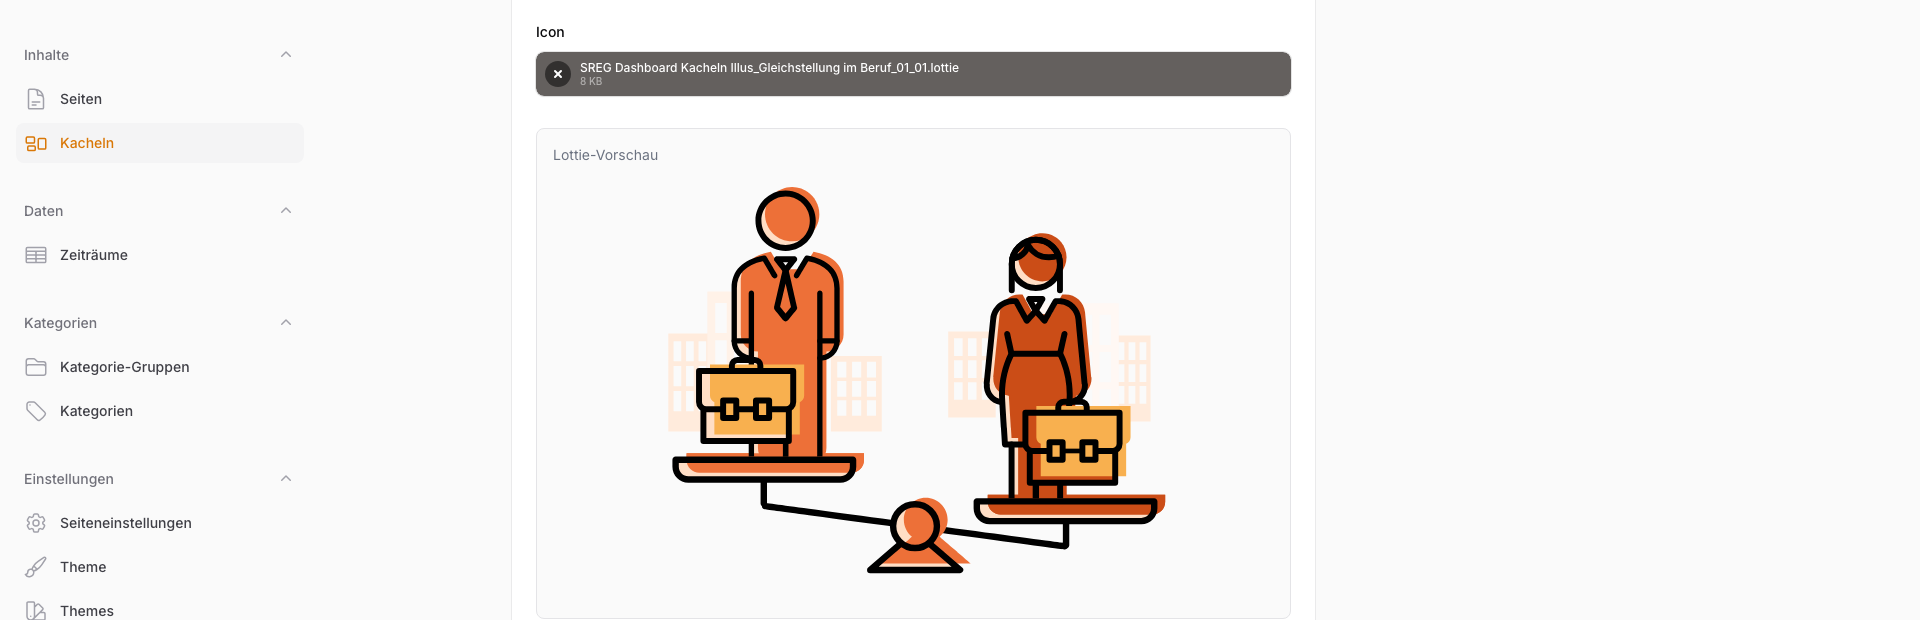
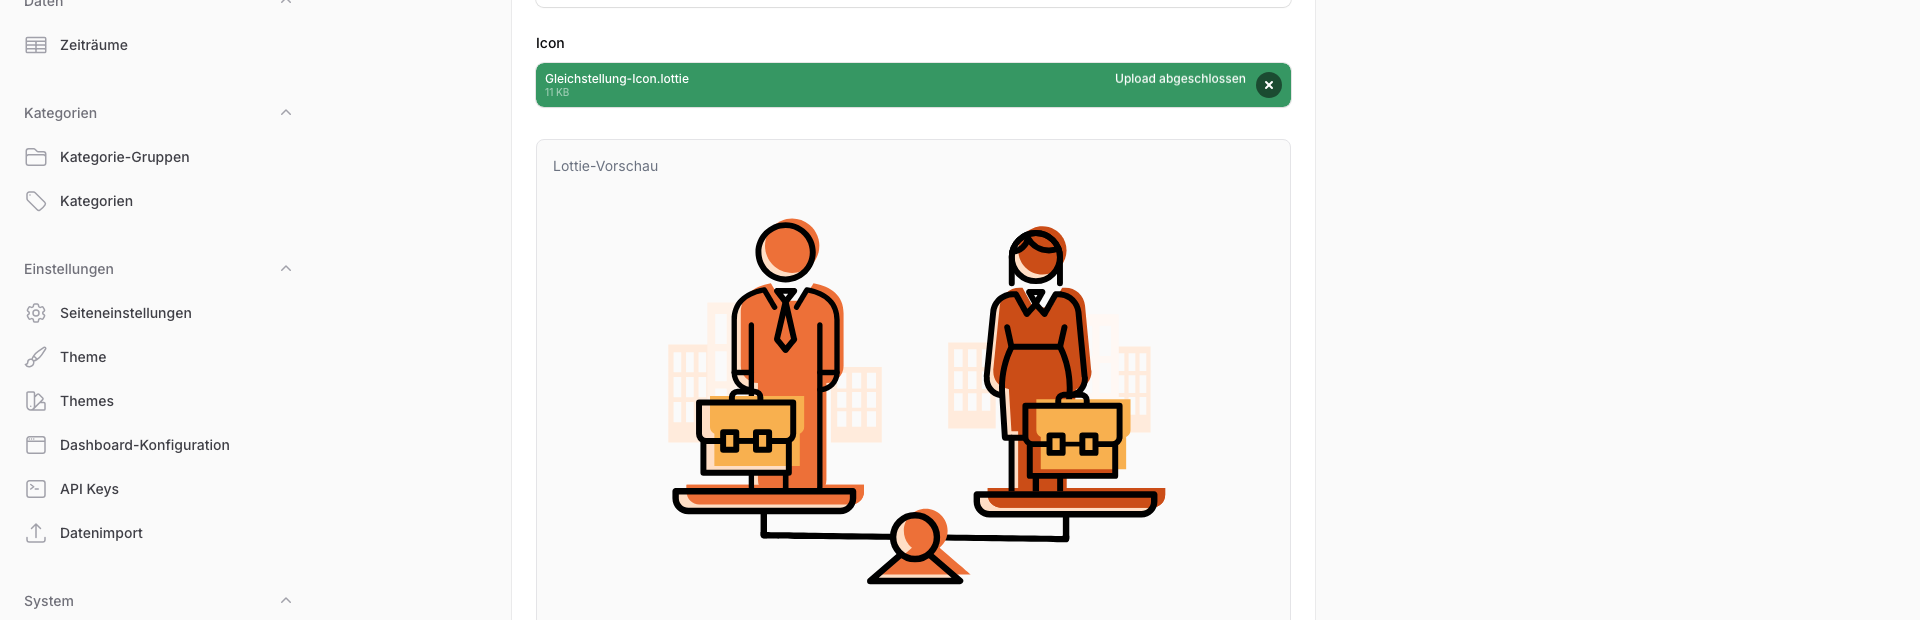
chore: fill remaining WIP screenshots + wire into user guide; refine two shots
Round 2, addressing review feedback:

- Refine de/05-icon-lottie-upload: enlarge crop so the green "Upload
  abgeschlossen" success message is visible again (+ Lottie preview).
- Refine en/06-general-settings + de/06-seiteneinstellungen-allgemein:
  taller crop (was ~430px) so more of the form is visible.
- Create the screenshots for the remaining WIP placeholders and wire them
  into the markdown (replace the WIP callout with the image reference):
  * ch04: create category group, group multilingual title, delete group,
    edit category, assign category (on the tile form), category
    multilingual title (de+en).
  * ch05: download-block file upload (de+en).
  * ch06: edit/delete API key, data import, edit/delete user (de+en);
    plus wire in the already-captured page-settings shot.
- Correct the 4.2.4 'assign category' shot: the prose assigns categories
  on the TILE form (per-group multi-selects), not on the category form.

Still WIP (intentionally left, flagged on the ticket):
- 5.3 Alt text & accessibility — prose-level placeholder deferred to
  whole section being reworked, not just a missing image.
- 5.4 — its WIP marker names the same file already shown in 5.1.
- 6.2 System — an intro sentence with no distinct screen of its own.

All referenced screenshots present, byte-distinct (md5 dedup). Image +
markdown only; no app code touched.

diff --git a/docs/user-guide/de/04-kategorien.md b/docs/user-guide/de/04-kategorien.md
@@ -24,11 +24,8 @@ Die Kategorie-Gruppen sind über **Kategorien → Kategorie-Gruppen** erreichbar
 
 Mit **Erstellen** oben rechts eine neue Gruppe anlegen. Das Formular enthält folgende Felder:
 
-<!-- Screenshot ausstehend (04-gruppe-erstellen.png): leeres Formular „Kategorie-Gruppe erstellen" mit Titel, Schlüssel und Aktiv-Schalter -->
-
-> ### <span style="color:#d32f2f">⚠ WIP — Work in progress</span>
->
-> <span style="color:#d32f2f">**Screenshot wird noch ergänzt.**</span>
+<!-- Screenshot: Kategorie-Gruppe erstellen -->
+![Kategorie-Gruppe erstellen](../assets/screenshots/de/04-gruppe-erstellen.png)
 
 | Feld | Beschreibung |
 |------|-------------|
@@ -53,9 +50,8 @@ Ein Klick auf eine Gruppe in der Übersicht öffnet das Bearbeiten-Formular. Neb
 
 Der **Titel** einer Kategorie-Gruppe wird pro Sprache getrennt gepflegt. Wie bei Seiten und Kacheln (siehe [Kapitel 2.7, Mehrsprachige Inhalte](02-seiten-verwalten.md#27-mehrsprachige-inhalte-locale-switcher)) wählt der **Sprache**-Umschalter im Formular, für welche Sprachversion der Titel gerade bearbeitet wird. Schlüssel, Aktiv-Schalter und Position gelten für alle Sprachversionen gleichermaßen.
 
-> ### <span style="color:#d32f2f">⚠ WIP — Work in progress</span>
->
-> <span style="color:#d32f2f">**Screenshot wird noch ergänzt.**</span>
+<!-- Screenshot: Kategorie-Gruppe: mehrsprachiger Titel -->
+![Kategorie-Gruppe: mehrsprachiger Titel](../assets/screenshots/de/04-gruppe-mehrsprachig.png)
 
 ### 4.1.5 Kategorie-Gruppe löschen
 
@@ -63,9 +59,8 @@ In der Kategorie-Gruppen-Übersicht steht rechts in jeder Zeile die rot markiert
 
 > **Hinweis:** Das Löschen einer Kategorie-Gruppe lässt sich nicht rückgängig machen. Ihre bisherigen Kategorien bleiben erhalten, verlieren aber die Gruppenzuordnung — sie erscheinen dann in keinem Filterabschnitt mehr, bis sie einer anderen Gruppe zugewiesen werden. Bei Unsicherheit die Gruppe über den **Aktiv**-Schalter deaktivieren, statt sie zu löschen.
 
-> ### <span style="color:#d32f2f">⚠ WIP — Work in progress</span>
->
-> <span style="color:#d32f2f">**Screenshot wird noch ergänzt.**</span>
+<!-- Screenshot: Kategorie-Gruppe löschen -->
+![Kategorie-Gruppe löschen](../assets/screenshots/de/04-gruppe-loeschen.png)
 
 ### 4.1.6 Reihenfolge und Sichtbarkeit
 
@@ -115,9 +110,8 @@ Mit **Erstellen** speichern oder **Erstellen & weiterer Eintrag** direkt eine we
 
 Ein Klick auf eine Kategorie — in der zentralen Übersicht oder in der verschachtelten Tabelle einer Gruppe — öffnet dasselbe Formular wie beim Anlegen. Dort lassen sich Titel, Icon, Farbe (sofern die Gruppe als Farbquelle hinterlegt ist) und der Aktiv-Schalter ändern. Der Schlüssel bleibt schreibgeschützt.
 
-> ### <span style="color:#d32f2f">⚠ WIP — Work in progress</span>
->
-> <span style="color:#d32f2f">**Screenshot wird noch ergänzt.**</span>
+<!-- Screenshot: Kategorie bearbeiten -->
+![Kategorie bearbeiten](../assets/screenshots/de/04-kategorie-bearbeiten.png)
 
 ### 4.2.4 Kategorie zuordnen
 
@@ -125,17 +119,15 @@ Kategorien werden nicht in der Kategorienverwaltung selbst mit Kacheln verknüpf
 
 > **Hinweis:** Die Zuordnung erfolgt pro Gruppe immer als Mehrfachauswahl — einer Kachel lassen sich also mehrere Kategorien derselben Gruppe zuordnen.
 
-> ### <span style="color:#d32f2f">⚠ WIP — Work in progress</span>
->
-> <span style="color:#d32f2f">**Screenshot wird noch ergänzt.**</span>
+<!-- Screenshot: Kategorie am Kachel-Formular zuordnen -->
+![Kategorie am Kachel-Formular zuordnen](../assets/screenshots/de/04-kategorie-zuordnen.png)
 
 ### 4.2.5 Mehrsprachige Inhalte
 
 Der **Titel** einer Kategorie wird pro Sprache getrennt gepflegt (siehe [Kapitel 2.7, Mehrsprachige Inhalte](02-seiten-verwalten.md#27-mehrsprachige-inhalte-locale-switcher)). Schlüssel, Icon, Farbe, Aktiv-Schalter und Gruppenzuordnung gelten für alle Sprachversionen gleichermaßen.
 
-> ### <span style="color:#d32f2f">⚠ WIP — Work in progress</span>
->
-> <span style="color:#d32f2f">**Screenshot wird noch ergänzt.**</span>
+<!-- Screenshot: Kategorie: mehrsprachiger Titel -->
+![Kategorie: mehrsprachiger Titel](../assets/screenshots/de/04-kategorie-mehrsprachig.png)
 
 ### 4.2.6 Kategorie löschen
 

diff --git a/docs/user-guide/en/04-categories.md b/docs/user-guide/en/04-categories.md
@@ -24,11 +24,8 @@ Category groups are available under **Categories → Category Groups**. The over
 
 Use **Create** at the top right to create a new group. The form contains the following fields:
 
-<!-- Screenshot pending (04-group-create.png): empty "Create Category Group" form with Title, Key, and Active toggle -->
-
-> ### <span style="color:#d32f2f">⚠ WIP — Work in progress</span>
->
-> <span style="color:#d32f2f">**Screenshot to be added.**</span>
+<!-- Screenshot: Create a category group -->
+![Create a category group](../assets/screenshots/en/04-group-create.png)
 
 | Field | Description |
 |-------|-------------|
@@ -53,9 +50,8 @@ Clicking a group in the overview opens the edit form. Alongside title, key, and 
 
 The **title** of a category group is maintained separately per language. As with pages and tiles (see [Chapter 2.7, Multilingual Content](02-managing-pages.md#27-multilingual-content-locale-switcher)), the **Locale** switcher in the form selects which language version of the title is currently being edited. Key, the Active toggle, and position apply to all language versions equally.
 
-> ### <span style="color:#d32f2f">⚠ WIP — Work in progress</span>
->
-> <span style="color:#d32f2f">**Screenshot to be added.**</span>
+<!-- Screenshot: Category group: multilingual title -->
+![Category group: multilingual title](../assets/screenshots/en/04-group-multilingual.png)
 
 ### 4.1.5 Delete a Category Group
 
@@ -63,9 +59,8 @@ The categories groups overview shows the red-marked **Delete** action on the rig
 
 > **Note:** Deleting a category group cannot be undone. Its existing categories are kept but lose their group assignment — they then no longer appear in any filter section until assigned to another group. If unsure, deactivate the group via the **Active** toggle instead of deleting it.
 
-> ### <span style="color:#d32f2f">⚠ WIP — Work in progress</span>
->
-> <span style="color:#d32f2f">**Screenshot to be added.**</span>
+<!-- Screenshot: Delete a category group -->
+![Delete a category group](../assets/screenshots/en/04-group-delete.png)
 
 ### 4.1.6 Order and Visibility
 
@@ -115,9 +110,8 @@ Use **Create** to save, or **Create & create another** to immediately add anothe
 
 Clicking a category — in the central overview or in the nested table of a group — opens the same form as when creating it. There, title, icon, color (if the group is set as the color source), and the Active toggle can be changed. The key stays read-only.
 
-> ### <span style="color:#d32f2f">⚠ WIP — Work in progress</span>
->
-> <span style="color:#d32f2f">**Screenshot to be added.**</span>
+<!-- Screenshot: Edit a category -->
+![Edit a category](../assets/screenshots/en/04-category-edit.png)
 
 ### 4.2.4 Assign a Category
 
@@ -125,17 +119,15 @@ Categories are not linked to tiles from the category management itself, but dire
 
 > **Note:** The assignment is always a multi-select per group — several categories from the same group can be assigned to a single tile.
 
-> ### <span style="color:#d32f2f">⚠ WIP — Work in progress</span>
->
-> <span style="color:#d32f2f">**Screenshot to be added.**</span>
+<!-- Screenshot: Assign a category on the tile form -->
+![Assign a category on the tile form](../assets/screenshots/en/04-category-assign.png)
 
 ### 4.2.5 Multilingual Content
 
 The **title** of a category is maintained separately per language (see [Chapter 2.7, Multilingual Content](02-managing-pages.md#27-multilingual-content-locale-switcher)). Key, icon, color, the Active toggle, and the group assignment apply to all language versions equally.
 
-> ### <span style="color:#d32f2f">⚠ WIP — Work in progress</span>
->
-> <span style="color:#d32f2f">**Screenshot to be added.**</span>
+<!-- Screenshot: Category: multilingual title -->
+![Category: multilingual title](../assets/screenshots/en/04-category-multilingual.png)
 
 ### 4.2.6 Delete a Category
 

diff --git a/docs/user-guide/de/06-einstellungen.md b/docs/user-guide/de/06-einstellungen.md
@@ -23,11 +23,8 @@ Im Abschnitt **Basisinformationen** stehen die grundlegenden, sprachunabhängige
 | **Seitenname** | Name der gesamten Installation. Erscheint u. a. im Browser-Tab-Titel und in System-E-Mails. Gilt für alle Dashboards (Tenants) gemeinsam. |
 | **Übersetzung Englisch** | Schalter. Bei Deaktivierung wird der Sprachumschalter im Frontend ausgeblendet, und englische Routen leiten automatisch auf Deutsch um. |
 
-<!-- Screenshot entfernt (Runde 3): 06-seiteneinstellungen-allgemein.png wird neu erstellt -->
-
-> ### <span style="color:#d32f2f">⚠ WIP — Work in progress</span>
->
-> <span style="color:#d32f2f">**Screenshot wird noch ergänzt.**</span>
+<!-- Screenshot: Seiteneinstellungen: Name und Mehrsprachigkeit -->
+![Seiteneinstellungen: Name und Mehrsprachigkeit](../assets/screenshots/de/06-seiteneinstellungen-allgemein.png)
 
 > **Hinweis:** Das Favicon wird abweichend vom Feldnamen **nicht** auf dieser Seite gepflegt, sondern auf der Seite **Theme** im Logo-Bereich (siehe [Abschnitt 6.1.2, Theme / Branding](#612-theme--branding)). Diese Aufteilung weicht vom ursprünglichen Struktur-Entwurf ab, entspricht aber dem aktuellen Stand der Live-Anwendung.
 
@@ -195,25 +192,22 @@ Die Tabelle zeigt pro Token: Name, Besitzer, Berechtigungen (Badge), Aktiv-Statu
 
 Über **Bearbeiten** lassen sich Name, Berechtigungen und Aktiv-Status eines bestehenden Tokens ändern (der Token-Wert selbst bleibt unverändert und wird nicht erneut angezeigt).
 
-> ### <span style="color:#d32f2f">⚠ WIP — Work in progress</span>
->
-> <span style="color:#d32f2f">**Screenshot wird noch ergänzt.**</span>
+<!-- Screenshot: API-Schlüssel bearbeiten -->
+![API-Schlüssel bearbeiten](../assets/screenshots/de/06-api-key-bearbeiten.png)
 
 #### 6.1.4.4 Key löschen
 
 Über **Löschen** (mit Sicherheitsabfrage) wird ein Token unwiderruflich entzogen — Anwendungen, die ihn verwenden, verlieren sofort den Zugriff.
 
-> ### <span style="color:#d32f2f">⚠ WIP — Work in progress</span>
->
-> <span style="color:#d32f2f">**Screenshot wird noch ergänzt.**</span>
+<!-- Screenshot: API-Schlüssel löschen -->
+![API-Schlüssel löschen](../assets/screenshots/de/06-api-key-loeschen.png)
 
 ### 6.1.5 Datenimport
 
 Für den Bulk-Import von Kacheln, Kategorien, Kategorie-Gruppen und Kennzahlen per JSON-Bundle existiert eine eigene Seite **Datenimport**, ausführlich beschrieben in [Datenimport](../datenimport.de.md).
 
-> ### <span style="color:#d32f2f">⚠ WIP — Work in progress</span>
->
-> <span style="color:#d32f2f">**Screenshot wird noch ergänzt.**</span>
+<!-- Screenshot: Datenimport -->
+![Datenimport](../assets/screenshots/de/06-datenimport.png)
 
 ## 6.2 System
 
@@ -247,14 +241,12 @@ Ein Klick auf einen Account öffnet dasselbe Formular wie beim Anlegen. Dort las
 
 > **Hinweis:** Ein Konto kann nicht sich selbst deaktivieren — der entsprechende Schalter ist im eigenen Datensatz gesperrt.
 
-> ### <span style="color:#d32f2f">⚠ WIP — Work in progress</span>
->
-> <span style="color:#d32f2f">**Screenshot wird noch ergänzt.**</span>
+<!-- Screenshot: Benutzer bearbeiten -->
+![Benutzer bearbeiten](../assets/screenshots/de/07-benutzer-bearbeiten.png)
 
 #### 6.2.1.4 Benutzer löschen
 
 Über die Zeilenaktion **Löschen** (mit Sicherheitsabfrage) wird ein Benutzerkonto endgültig entfernt.
 
-> ### <span style="color:#d32f2f">⚠ WIP — Work in progress</span>
->
-> <span style="color:#d32f2f">**Screenshot wird noch ergänzt.**</span>
+<!-- Screenshot: Benutzer löschen -->
+![Benutzer löschen](../assets/screenshots/de/07-benutzer-loeschen.png)

diff --git a/docs/user-guide/en/06-settings.md b/docs/user-guide/en/06-settings.md
@@ -23,11 +23,8 @@ The **Basic Information** section contains the installation-wide, language-indep
 | **Site name** | Name of the entire installation. Appears in the browser tab title and in system emails, among other places. Shared across all dashboards (tenants). |
 | **English Translation** | Toggle. When disabled, the language switcher is hidden in the frontend and English routes redirect to German. |
 
-<!-- Screenshot removed (round 3): 06-general-settings.png to be recreated -->
-
-> ### <span style="color:#d32f2f">⚠ WIP — Work in progress</span>
->
-> <span style="color:#d32f2f">**Screenshot to be added.**</span>
+<!-- Screenshot: Site settings: name and multilingual content -->
+![Site settings: name and multilingual content](../assets/screenshots/en/06-general-settings.png)
 
 > **Note:** Despite the field name, the favicon is **not** managed on this page — it lives on the **Theme** page, in the Logo area (see [Section 6.1.2, Theme / Branding](#612-theme--branding)). This split differs from the original structure proposal but matches the current state of the live application.
 
@@ -195,25 +192,22 @@ The table shows, per token: name, owner, abilities (badge), active status, creat
 
 **Edit** lets you change the name, abilities, and active status of an existing token (the token value itself is unchanged and is not shown again).
 
-> ### <span style="color:#d32f2f">⚠ WIP — Work in progress</span>
->
-> <span style="color:#d32f2f">**Screenshot to be added.**</span>
+<!-- Screenshot: Edit an API key -->
+![Edit an API key](../assets/screenshots/en/06-api-key-edit.png)
 
 #### 6.1.4.4 Delete a Key
 
 **Delete** (with a confirmation prompt) permanently revokes a token — applications using it immediately lose access.
 
-> ### <span style="color:#d32f2f">⚠ WIP — Work in progress</span>
->
-> <span style="color:#d32f2f">**Screenshot to be added.**</span>
+<!-- Screenshot: Delete an API key -->
+![Delete an API key](../assets/screenshots/en/06-api-key-delete.png)
 
 ### 6.1.5 Data Import
 
 For bulk import of tiles, categories, category groups, and metrics via JSON bundle, there is a dedicated **Data Import** page, described in detail in [Data Import](../datenimport.en.md).
 
-> ### <span style="color:#d32f2f">⚠ WIP — Work in progress</span>
->
-> <span style="color:#d32f2f">**Screenshot to be added.**</span>
+<!-- Screenshot: Data import -->
+![Data import](../assets/screenshots/en/06-data-import.png)
 
 ## 6.2 System
 
@@ -247,14 +241,12 @@ Clicking an account opens the same form as when creating it. There, the role, da
 
 > **Note:** An account cannot deactivate itself — the corresponding toggle is disabled on its own record.
 
-> ### <span style="color:#d32f2f">⚠ WIP — Work in progress</span>
->
-> <span style="color:#d32f2f">**Screenshot to be added.**</span>
+<!-- Screenshot: Edit a user -->
+![Edit a user](../assets/screenshots/en/07-user-edit.png)
 
 #### 6.2.1.4 Delete a User
 
 The row action **Delete** (with a confirmation prompt) permanently removes a user account.
 
-> ### <span style="color:#d32f2f">⚠ WIP — Work in progress</span>
->
-> <span style="color:#d32f2f">**Screenshot to be added.**</span>
+<!-- Screenshot: Delete a user -->
+![Delete a user](../assets/screenshots/en/07-user-delete.png)

diff --git a/docs/user-guide/de/05-bilder-und-dateien.md b/docs/user-guide/de/05-bilder-und-dateien.md
@@ -28,11 +28,8 @@ Welche Dateiformate und Größenbeschränkungen gelten, hängt vom jeweiligen Fe
 | Eigene Schriftart-Datei | WOFF2, WOFF, TTF, OTF | 5 MB |
 | Datenimport-Datei | JSON, Text | 20 MB |
 
-<!-- Screenshot entfernt (Runde 3): 05-download-dateityp.png wird neu erstellt -->
-
-> ### <span style="color:#d32f2f">⚠ WIP — Work in progress</span>
->
-> <span style="color:#d32f2f">**Screenshot wird noch ergänzt.**</span>
+<!-- Screenshot: Datei-Upload im Download-Block -->
+![Datei-Upload im Download-Block](../assets/screenshots/de/05-download-dateityp.png)
 
 > **Hinweis:** Große Bilddateien vor dem Hochladen sinnvoll komprimieren, um Ladezeiten im Frontend gering zu halten.
 

diff --git a/docs/user-guide/en/05-images-and-files.md b/docs/user-guide/en/05-images-and-files.md
@@ -28,11 +28,8 @@ Which file formats and size limits apply depends on the specific field:
 | Custom font file | WOFF2, WOFF, TTF, OTF | 5 MB |
 | Data import file | JSON, Text | 20 MB |
 
-<!-- Screenshot removed (round 3): 05-download-file-type.png to be recreated -->
-
-> ### <span style="color:#d32f2f">⚠ WIP — Work in progress</span>
->
-> <span style="color:#d32f2f">**Screenshot to be added.**</span>
+<!-- Screenshot: File upload in the Download block -->
+![File upload in the Download block](../assets/screenshots/en/05-download-file-type.png)
 
 > **Note:** Compress large image files before uploading, to keep frontend load times low.
 
